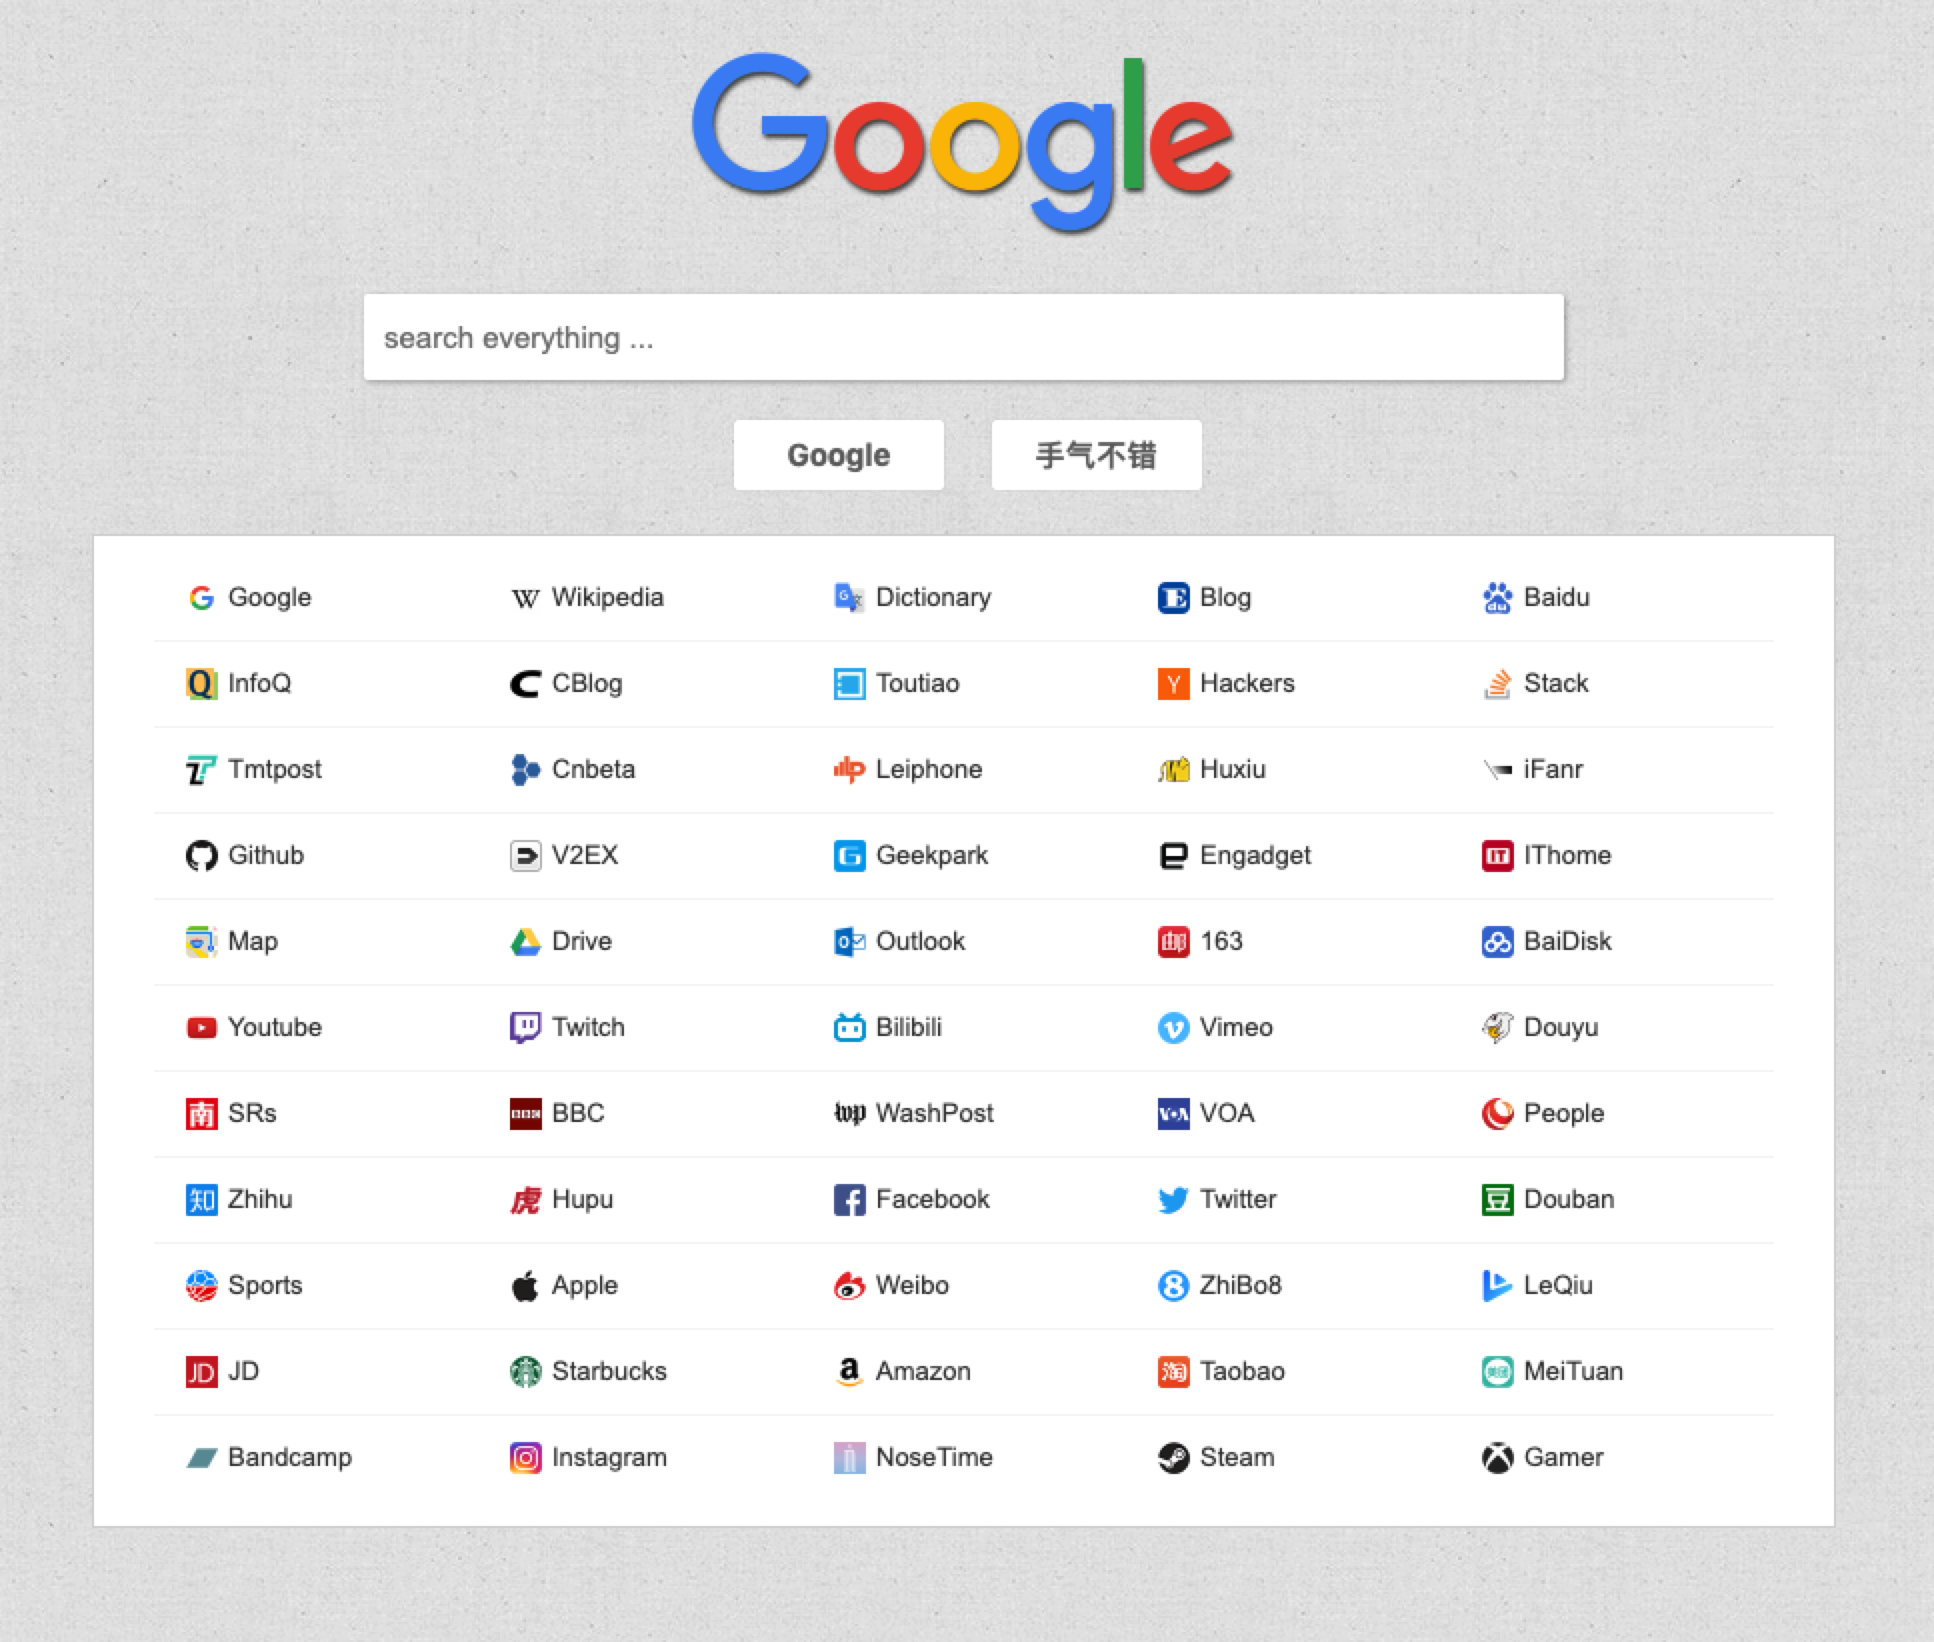
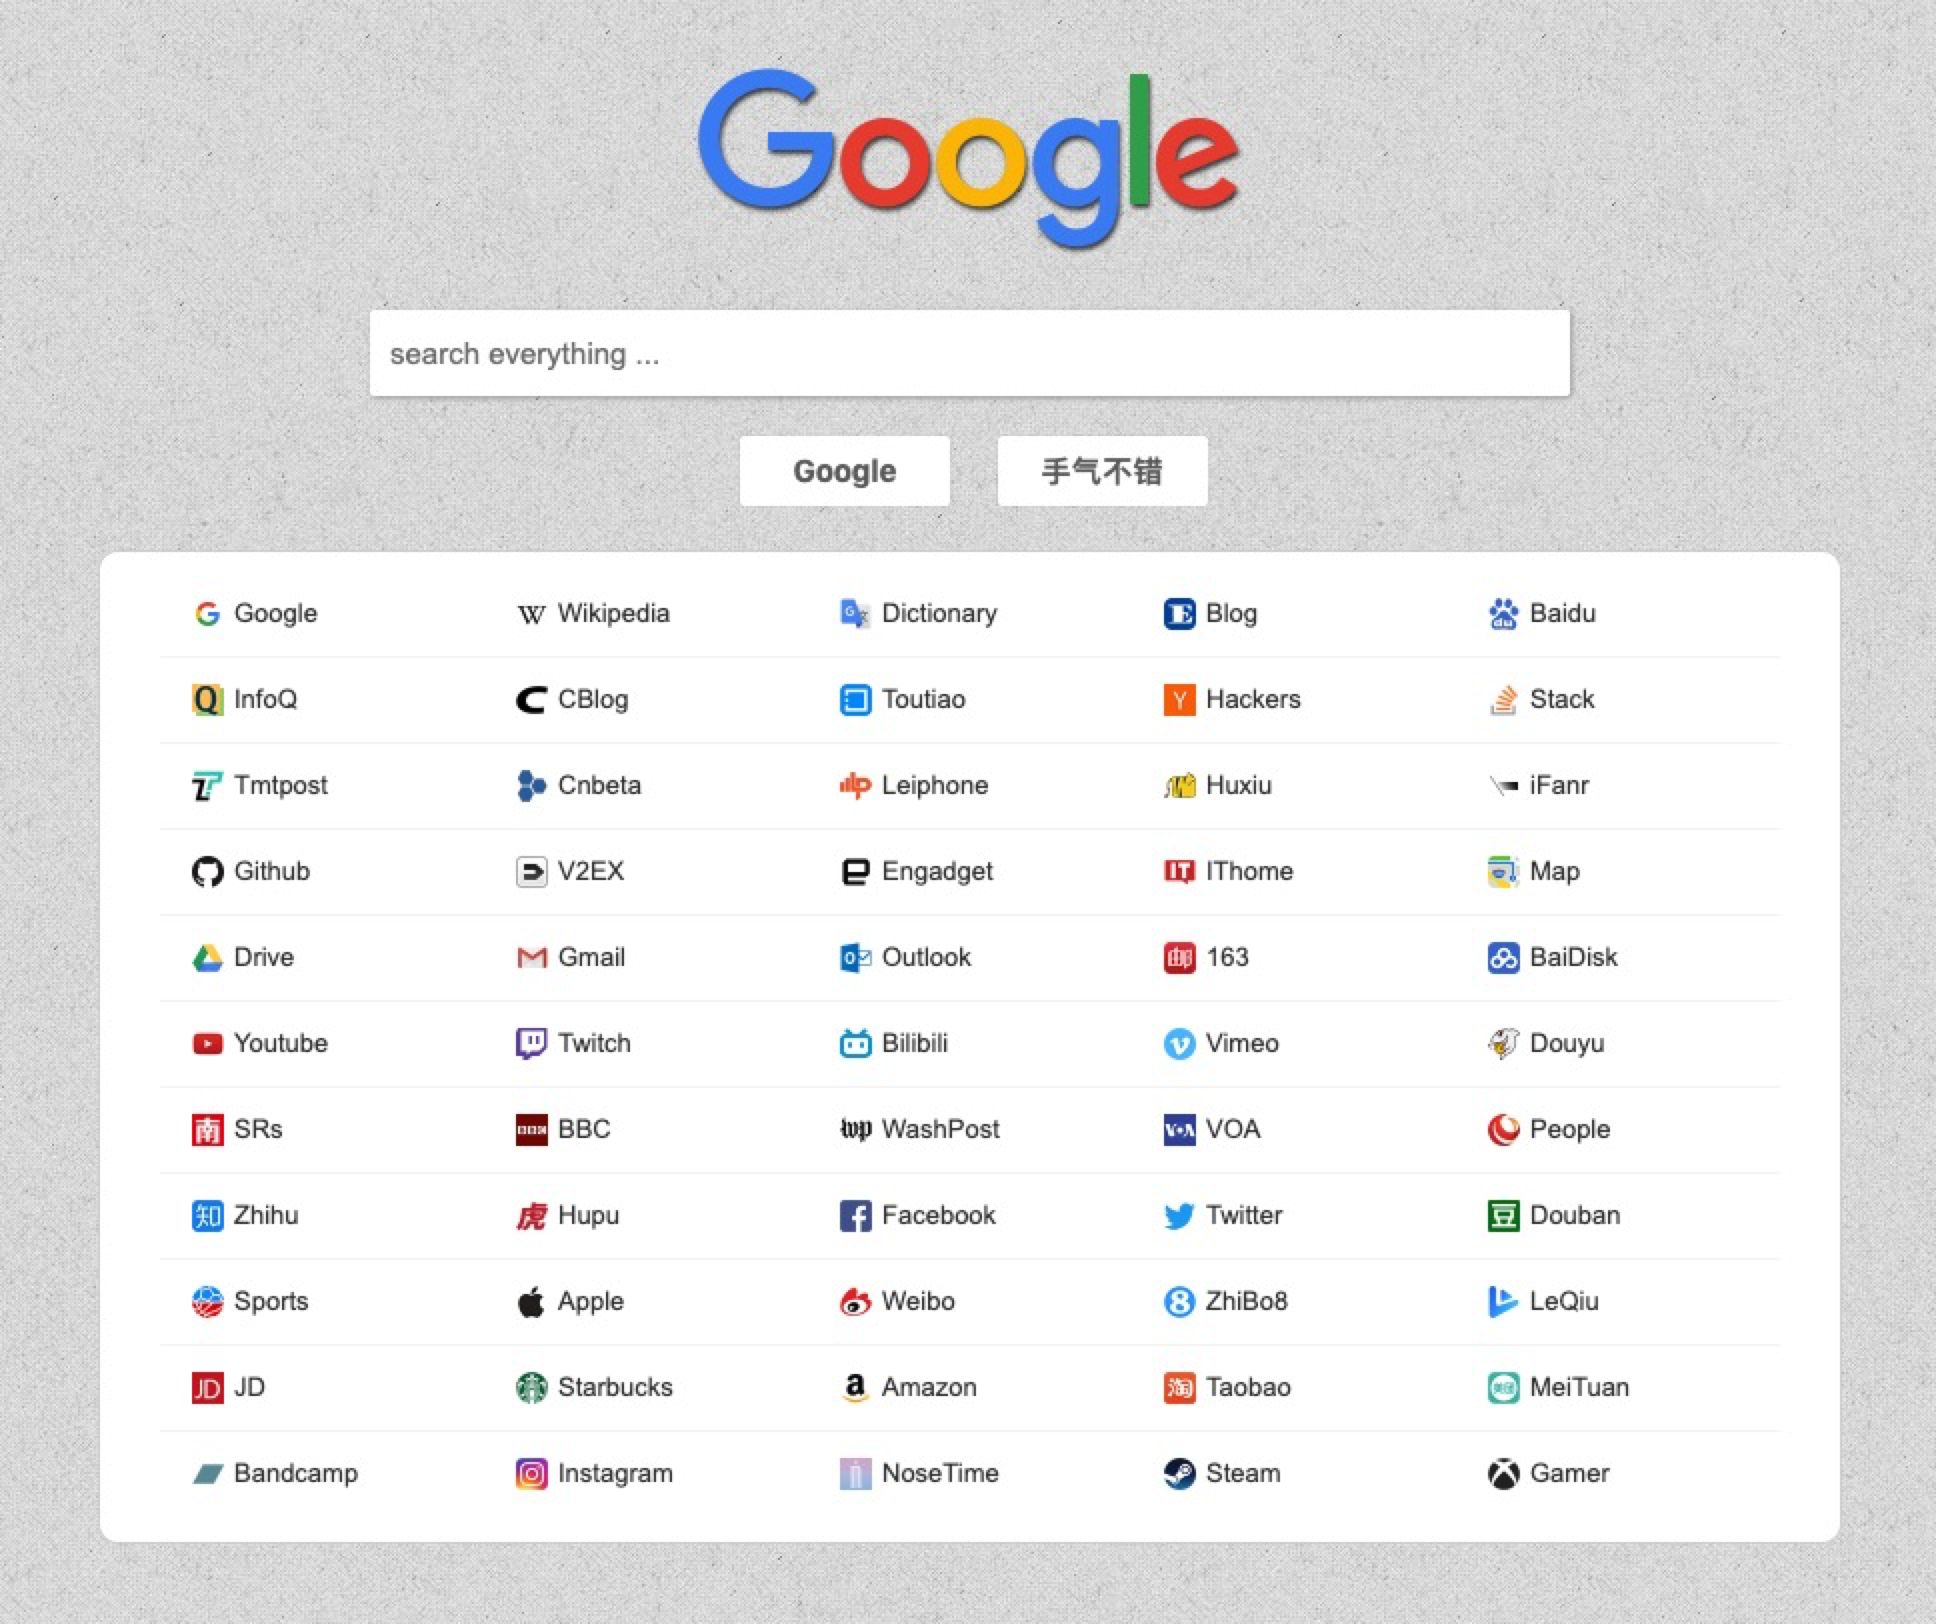
Update

Changed region(s): [[0.031, 0.0308, 0.9617, 0.9544]]

diff --git a/Ensk's Web/css/index.css b/Ensk's Web/css/index.css
@@ -76,6 +76,7 @@ body::-webkit-scrollbar {
     padding-top: 10px;
     background-color: #FFFFFF;
     border: 1px solid rgb(210,210,210);
+    border-radius: 10px;
 }
 
 .nav-panel-line{

diff --git a/Ensk's Web Dark/css/index.css b/Ensk's Web Dark/css/index.css
@@ -73,7 +73,6 @@ body::-webkit-scrollbar {
     padding-left: 30px;
     padding-top: 10px;
     background-color: rgb(58,58,62);
-
 	border-radius: 10px;
 }
 
